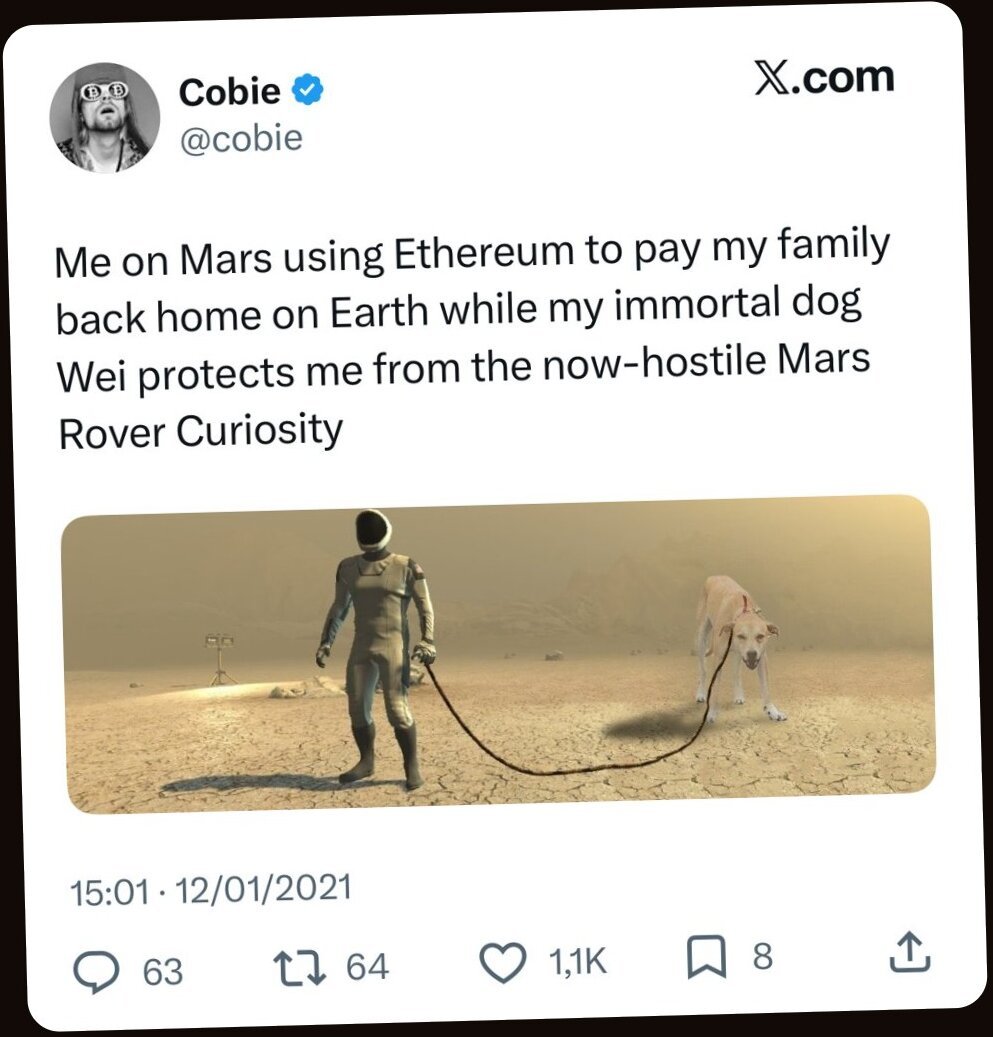
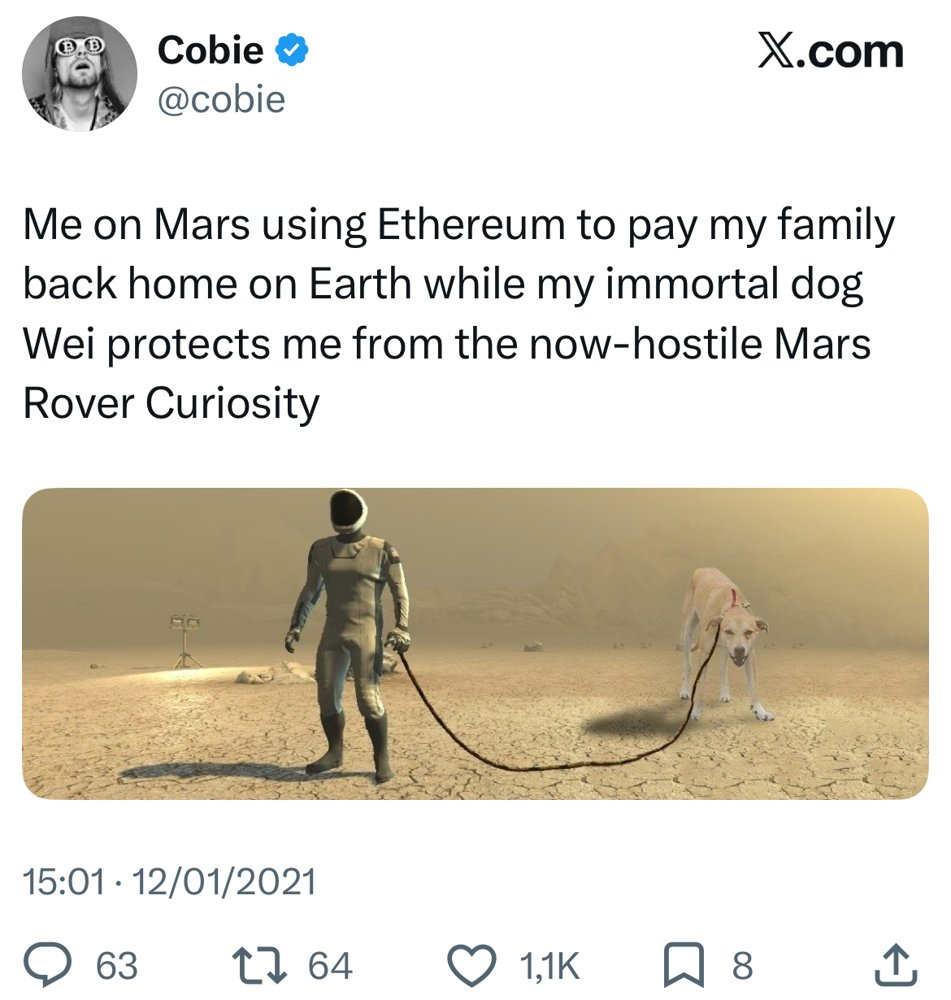
WEI: real asset pack, contract, X link, Stockify index
- Replace temporary crops with the delivered images (hero, hero-wide as
  Keep Wei Alive background, wei-medallion avatar, episodes, film poster,
  tweet fallback)
- Contract address in content/site.json (env TOKEN_ADDRESS can override)
- DexScreener lookup is now chain-agnostic (optional DEXSCREENER_CHAIN filter)
- X link, Stockify index link (Buy row + Fees card source); empty links hide
- FEE_WALLET example points at the Stockify index address

Claude-Session: https://claude.ai/code/session_01V5veSTzYQfUzD7yBGLZV2g

Changed region(s): [[0.0, 0.0, 1.0, 1.0]]

diff --git a/wei-the-dog/components/Buy.tsx b/wei-the-dog/components/Buy.tsx
@@ -3,7 +3,7 @@
 import Image from "next/image";
 import { useState } from "react";
 
-type Links = { buy: string; chart: string; x: string; telegram: string };
+type Links = { buy: string; chart: string; x: string; telegram: string; index?: string };
 
 export function Buy({ address, ticker, links }: { address: string; ticker: string; links: Links }) {
   const [copied, setCopied] = useState(false);
@@ -30,7 +30,7 @@ export function Buy({ address, ticker, links }: { address: string; ticker: strin
 
   return (
     <section id="buy" className="relative isolate overflow-hidden py-28 md:py-40">
-      <Image src="/wei-assets/buy.jpg" alt="" fill sizes="100vw" className="-z-20 object-cover" />
+      <Image src="/wei-assets/hero-wide.jpg" alt="" fill sizes="100vw" className="-z-20 object-cover object-[center_40%]" />
       <div className="absolute inset-0 -z-10 bg-bg/35" />
 
       <div className="container-x flex flex-col items-center text-center">
@@ -63,15 +63,18 @@ export function Buy({ address, ticker, links }: { address: string; ticker: strin
           >
             Buy ${ticker}
           </a>
-          <a href={links.chart} target="_blank" rel="noopener noreferrer" className={ghost}>
-            Chart
-          </a>
-          <a href={links.x} target="_blank" rel="noopener noreferrer" className={ghost} aria-label="X">
-            X
-          </a>
-          <a href={links.telegram} target="_blank" rel="noopener noreferrer" className={ghost}>
-            Telegram
-          </a>
+          {[
+            { href: links.chart, label: "Chart" },
+            { href: links.index, label: "Index" },
+            { href: links.x, label: "X" },
+            { href: links.telegram, label: "Telegram" },
+          ]
+            .filter((l) => l.href)
+            .map((l) => (
+              <a key={l.label} href={l.href} target="_blank" rel="noopener noreferrer" className={ghost}>
+                {l.label}
+              </a>
+            ))}
         </div>
       </div>
     </section>

diff --git a/wei-the-dog/components/Dashboard.tsx b/wei-the-dog/components/Dashboard.tsx
@@ -28,7 +28,7 @@ function Card({
   );
 }
 
-export function Dashboard() {
+export function Dashboard({ indexUrl }: { indexUrl?: string }) {
   const { stats } = useStats();
   const s = stats;
   const vitality = s?.vitality ?? null;
@@ -58,7 +58,7 @@ export function Dashboard() {
           <Card
             label="Fees collected"
             value={s?.feesCollectedEth != null ? <>{eth(s.feesCollectedEth)} ETH</> : DASH}
-            source="Fee wallet"
+            source={indexUrl ? <a href={indexUrl} target="_blank" rel="noopener noreferrer" className="underline decoration-ink/30 underline-offset-2 hover:text-accent">Stockify index</a> : "Fee wallet"}
           />
           <Card
             label="ETH sent home"
@@ -76,11 +76,11 @@ export function Dashboard() {
 
         <div className="mt-3 flex flex-col gap-5 rounded-[4px] border border-line bg-card p-5 sm:flex-row sm:items-center md:mt-4 md:gap-7 md:p-6">
           <Image
-            src="/wei-assets/avatar.jpg"
+            src="/wei-assets/wei-medallion.jpg"
             alt="Wei"
             width={88}
             height={88}
-            className="size-16 shrink-0 rounded-full md:size-[88px]"
+            className="size-16 shrink-0 rounded-full ring-2 ring-glow ring-offset-2 ring-offset-card md:size-[88px]"
             style={{ boxShadow: `0 0 ${vitality === null ? 0 : 6 + vitality / 4}px rgba(111,168,255,0.55)` }}
           />
           <div className="min-w-0 flex-1">

diff --git a/wei-the-dog/lib/stats.ts b/wei-the-dog/lib/stats.ts
@@ -16,6 +16,7 @@ async function getJson<T>(url: string): Promise<T> {
 // ---------- DexScreener: price, market cap, 24h volume, 24h txns ----------
 
 type DexPair = {
+  chainId?: string;
   priceUsd?: string;
   marketCap?: number;
   fdv?: number;
@@ -26,10 +27,12 @@ type DexPair = {
 
 async function getMarket() {
   if (!config.tokenAddress) throw new Error("TOKEN_ADDRESS not set");
-  const pairs = await getJson<DexPair[]>(
-    `https://api.dexscreener.com/tokens/v1/${config.dexChain}/${config.tokenAddress}`,
+  // Chain-agnostic lookup: returns every pool for this address across all chains.
+  const data = await getJson<{ pairs: DexPair[] | null }>(
+    `https://api.dexscreener.com/latest/dex/tokens/${config.tokenAddress}`,
   );
-  if (!Array.isArray(pairs) || pairs.length === 0) throw new Error("no pairs");
+  const pairs = (data.pairs ?? []).filter((p) => !config.dexChain || p.chainId === config.dexChain);
+  if (pairs.length === 0) throw new Error("no pairs");
 
   // Price & market cap from the deepest pool; volume and txns summed across all pools.
   const main = [...pairs].sort((a, b) => (b.liquidity?.usd ?? 0) - (a.liquidity?.usd ?? 0))[0];

diff --git a/wei-the-dog/lib/config.ts b/wei-the-dog/lib/config.ts
@@ -1,13 +1,15 @@
 import "server-only";
+import site from "@/content/site.json";
 
 // Server-only env access. Nothing here is exposed to the browser except
 // values explicitly passed down as props (contract address, ticker).
 const env = (key: string) => process.env[key]?.trim() || "";
 
 export const config = {
-  tokenAddress: env("TOKEN_ADDRESS"),
+  tokenAddress: env("TOKEN_ADDRESS") || site.contract,
   tokenSymbol: env("TOKEN_SYMBOL") || "WEI",
-  dexChain: env("DEXSCREENER_CHAIN") || "ethereum",
+  // Optional: restrict DexScreener pools to one chain (e.g. "ethereum", "base"). Empty = all chains.
+  dexChain: env("DEXSCREENER_CHAIN"),
   holdersProvider: (env("HOLDERS_PROVIDER") || "blockscout") as "blockscout" | "etherscan",
   blockscoutUrl: env("BLOCKSCOUT_URL").replace(/\/$/, ""),
   etherscanKey: env("ETHERSCAN_API_KEY"),

diff --git a/wei-the-dog/components/Hero.tsx b/wei-the-dog/components/Hero.tsx
@@ -3,7 +3,7 @@ import Image from "next/image";
 export function Hero({ incoming }: { incoming: number | null }) {
   return (
     <section id="top" className="relative isolate flex min-h-[640px] items-center overflow-hidden md:min-h-[760px]">
-      <Image src="/wei-assets/hero.jpg" alt="" fill priority sizes="100vw" className="-z-20 object-cover object-[70%_center]" />
+      <Image src="/wei-assets/hero.jpg" alt="" fill priority sizes="100vw" className="-z-20 object-cover object-[60%_center] md:object-center" />
       {/* readability gradients */}
       <div className="absolute inset-0 -z-10 bg-gradient-to-r from-bg/80 via-bg/30 to-transparent" />
       <div className="absolute inset-x-0 bottom-0 -z-10 h-1/3 bg-gradient-to-t from-bg to-transparent" />

diff --git a/wei-the-dog/components/Nav.tsx b/wei-the-dog/components/Nav.tsx
@@ -18,11 +18,11 @@ export function Nav({ ticker, buyUrl }: { ticker: string; buyUrl: string }) {
       <div className="container-x flex h-[72px] items-center justify-between">
         <a href="#top" className="flex items-center gap-3" onClick={() => setOpen(false)}>
           <Image
-            src="/wei-assets/avatar.jpg"
+            src="/wei-assets/wei-medallion.jpg"
             alt=""
             width={40}
             height={40}
-            className="size-10 rounded-full ring-2 ring-accent/70"
+            className="size-10 rounded-full"
           />
           <span className="title text-[1.6rem] font-bold">Wei the Dog</span>
         </a>

diff --git a/wei-the-dog/components/TweetEmbed.tsx b/wei-the-dog/components/TweetEmbed.tsx
@@ -66,8 +66,8 @@ export function TweetEmbed({ url, fallback }: { url: string; fallback: string })
           <Image
             src={fallback}
             alt="Cobie on X: Me on Mars using Ethereum to pay my family back home on Earth while my immortal dog Wei protects me from the now-hostile Mars Rover Curiosity"
-            width={993}
-            height={1037}
+            width={951}
+            height={1000}
             className={`h-auto w-full rounded-2xl shadow-2xl shadow-black/50 ${status === "loading" ? "opacity-90" : ""}`}
           />
         </a>

diff --git a/wei-the-dog/app/page.tsx b/wei-the-dog/app/page.tsx
@@ -24,7 +24,7 @@ export default function Home() {
       <main>
         <Hero incoming={nextLocked?.number ?? null} />
         <Lore tweetUrl={site.lore_tweet} />
-        <Dashboard />
+        <Dashboard indexUrl={site.links.index} />
         <Episodes episodes={episodes} />
         <FullFilm poster={site.film.poster} videoUrl={site.film.video_url} runtime={site.film.runtime} />
         <Buy address={config.tokenAddress} ticker={ticker} links={site.links} />

diff --git a/wei-the-dog/README.md b/wei-the-dog/README.md
@@ -15,8 +15,8 @@ npm run build && npm start   # production check
   - A `locked` episode shows **Signal incoming**. It unlocks automatically once the live holder count reaches `unlock_at_holders`. To unlock it by hand, set `locked: false`.
   - The hero badge ("Episode 0X incoming") points at the first locked episode.
   - `video_url` accepts YouTube, Vimeo or a direct `.mp4`/`.webm` link.
-- **Film, links, tweet**: `content/site.json`.
-- **Images**: `public/wei-assets/`: `hero.jpg`, `avatar.jpg`, `tweet-fallback.jpg`, `ep01.jpg`…, `film-poster.jpg`, `buy.jpg`. To change an image, overwrite the file with the same name.
+- **Contract, film, links, tweet**: `content/site.json`. A link left empty hides its button.
+- **Images**: `public/wei-assets/`: `hero.jpg` (hero), `wei-medallion.jpg` (nav + vitality avatar), `tweet-fallback.jpg`, `ep01.jpg`…, `film-poster.jpg`, `hero-wide.jpg` (Keep Wei Alive background). To change an image, overwrite the file with the same name.
 
 ## Live dashboard
 
@@ -24,7 +24,7 @@ npm run build && npm start   # production check
 
 | Card | Source |
 |---|---|
-| Market cap, 24h volume, price | DexScreener `tokens/v1/{DEXSCREENER_CHAIN}/{TOKEN_ADDRESS}`. Price and market cap come from the deepest pool; volume is summed across all pools |
+| Market cap, 24h volume, price | DexScreener `latest/dex/tokens/{address}` (all chains, or limited by `DEXSCREENER_CHAIN`). Price and market cap come from the deepest pool; volume is summed across all pools |
 | Holders | Blockscout (free) or Etherscan V2 `tokenholdercount` (Pro plan). Chosen with `HOLDERS_PROVIDER` |
 | Fees collected / ETH sent home / Last transfer | Etherscan V2 normal and internal txs of `FEE_WALLET`: ETH in = fees, ETH out = distributed. You can override them with `*_OVERRIDE` |
 | Wei vitality | 24h txns (buys + sells) ÷ `VITALITY_MAX_TXNS`, capped at 100% |
